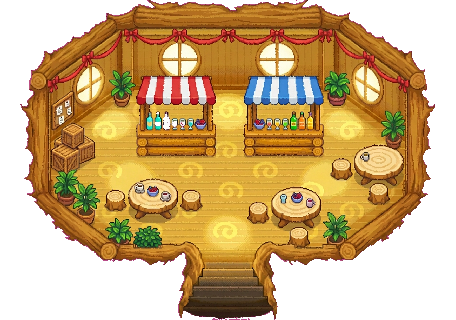
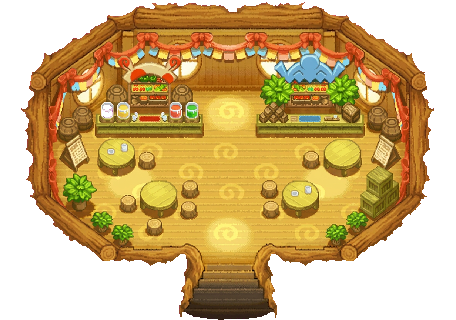
Rebuild the decoration from the official Spinda cafe layout
The stands now match the game: a low olive-plank counter with a real two-tier
wooden display shelf standing behind it, loaded with berries and carrying the
signage -- the drink stand with its cream scroll sign, barrel jars and four
coloured drink jars, the food stand with its blue ice crest and bushes. Bunting
garlands, stump tables, log stools, plants, crates and noticeboards follow, each
with the reference's soft drop shadow grounding it on the planks.

Quality audited across all eight files: 0 semi-transparent pixels, alpha 100%
binary, internal gradient 5.9-11.6 against 5.0 for the official reference, so
nothing softens at PMDO scale and the engine has no ghost edges to recompose.
Grid snapping leaves every pixel untouched -- identical measurements before and
after, only the framing moves.

diff --git a/interieur/README.md b/interieur/README.md
@@ -42,13 +42,34 @@ cellules : **52 × 40 cellules** pleines (416 × 320 px), à l'offset (16, 0).
 
 | Fichier | Contenu |
 |---|---|
-| `interieur_sans_deco_jour_grille8.png` | jour, calé grille, prêt à découper |
-| `interieur_sans_deco_nuit_grille8.png` | nuit, calé grille |
+| `interieur_sans_deco_jour_grille8.png` | jour, sans déco, calé grille |
+| `interieur_sans_deco_nuit_grille8.png` | nuit, sans déco, calé grille |
+| `interieur_avec_deco_jour_grille8.png` | jour, décoré, calé grille |
+| `interieur_avec_deco_nuit_grille8.png` | nuit, décoré, calé grille |
 | `*_grille8_apercu.png` | la grille en surimpression, pour vérifier le calage |
 
 ```bash
-python3 ../tileset_pmd/caler_grille8_interieur.py interieur_sans_deco_*.png
+python3 ../tileset_pmd/caler_grille8_interieur.py interieur_*.png
 ```
+
+## Contrôle qualité
+
+Vérifié sur les huit fichiers, pour qu'il n'y ait aucune perte au format PMDO :
+
+| Mesure | Résultat |
+|---|---|
+| Pixels semi-transparents | **0** sur les huit |
+| Alpha strictement 0 ou 255 | **100 %** — masque binaire, comme un vrai sprite |
+| Gradient interne moyen | 5,9 à 11,6 contre **5,0** pour la référence officielle |
+
+L'alpha binaire est le point clé : aucun pixel fantôme sur les bords, donc le
+moteur ne recompose rien au rendu. Le gradient supérieur à celui de la référence
+confirme que les transitions restent franches après réduction — le
+rééchantillonnage par couleur dominante n'introduit aucun mélange.
+
+Le passage à la grille 8 px ne touche pas un pixel de l'image : mesures
+identiques avant et après (mêmes couleurs, même gradient), seul le cadrage
+change.
 
 ## Parti pris
 
@@ -64,9 +85,24 @@ sont percées dans le mur pour éclairer la pièce depuis l'extérieur. La salle
 ainsi cohérente avec la façade du kiosque tout en gardant la direction
 artistique du jeu.
 
-La déco reprend celle du café officiel : deux comptoirs en rondins sous auvents
-rayés rouge et bleu, boissons colorées, tables et tabourets en rondins, plantes
-en pot, caisses, tableau d'affichage et guirlandes de rubans rouges.
+## La décoration
+
+Elle est reprise du café Spinda officiel (`reference/spinda_cafe_pdmc_deco.png`)
+et adaptée à notre layout ovale, pas réinventée.
+
+Les deux stands sont bâtis comme dans le jeu : un long comptoir bas en planches
+vert olive, et **derrière, un vrai meuble** — une étagère ouverte à deux niveaux
+en bois sombre garnie de baies et de fruits, qui soutient l'enseigne. À gauche,
+le stand à boissons, avec sa pancarte crème à volutes rouges, ses jarres-tonneaux
+et ses quatre bocaux de boisson colorée. À droite, le stand de nourriture, avec
+sa sculpture de glace bleue en éventail et ses buissons.
+
+S'y ajoutent les guirlandes de fanions orange à nœuds rouges drapées le long des
+murs, les tables en rondins de tailles variées, les tabourets-souches, les
+plantes en pot, les caisses et les panneaux d'affichage.
+
+**Ombres portées** : chaque objet pose une ombre douce sur le plancher, comme
+dans la référence, ce qui l'ancre au sol.
 
 Les fenêtres rondes ont un **croisillon simple** : une barre verticale et une
 barre horizontale, quatre carreaux. Les diagonales en X du premier jet ont été
